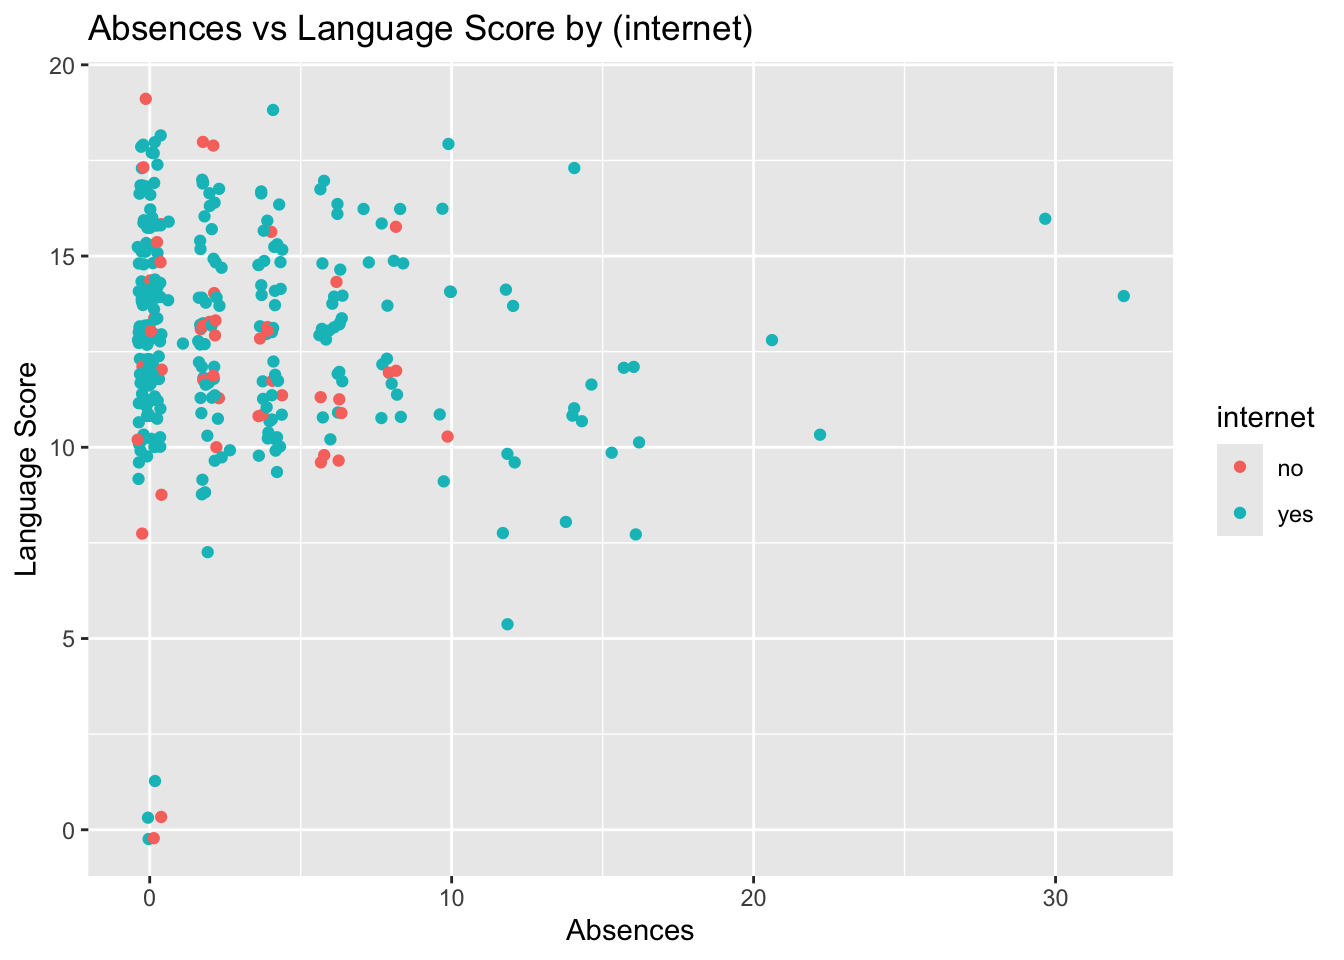
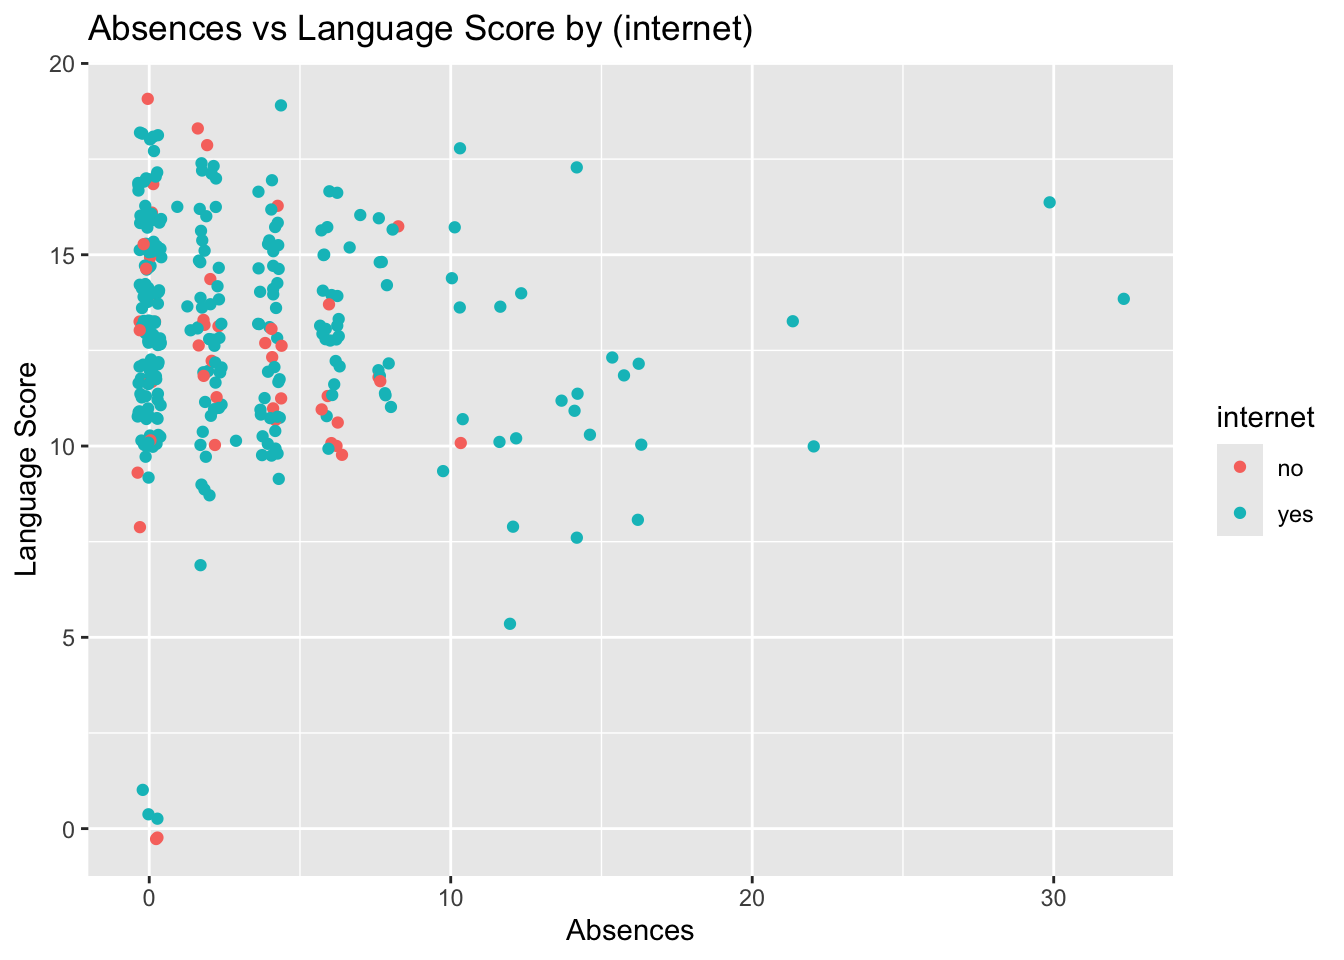
regenerating quarto for all files so you can click between homeworks

diff --git a/docs/homeworks/Homework_4.html b/docs/homeworks/Homework_4.html
@@ -132,6 +132,10 @@ pre > code.sourceCode > span > a:first-child::before { text-decoration: underlin
     <a class="nav-link active" href="../homeworks/Homework_4.html" aria-current="page"> 
 <span class="menu-text">Homework 4</span></a>
   </li>  
+  <li class="nav-item">
+    <a class="nav-link" href="../homeworks/Homework_5.html"> 
+<span class="menu-text">Homework 5</span></a>
+  </li>  
 </ul>
           </div> <!-- /navcollapse -->
           <div class="quarto-navbar-tools">

diff --git a/docs/homeworks/Homework_1.html b/docs/homeworks/Homework_1.html
@@ -132,6 +132,10 @@ pre > code.sourceCode > span > a:first-child::before { text-decoration: underlin
     <a class="nav-link" href="../homeworks/Homework_4.html"> 
 <span class="menu-text">Homework 4</span></a>
   </li>  
+  <li class="nav-item">
+    <a class="nav-link" href="../homeworks/Homework_5.html"> 
+<span class="menu-text">Homework 5</span></a>
+  </li>  
 </ul>
           </div> <!-- /navcollapse -->
           <div class="quarto-navbar-tools">

diff --git a/docs/homeworks/Homework_2.html b/docs/homeworks/Homework_2.html
@@ -132,6 +132,10 @@ pre > code.sourceCode > span > a:first-child::before { text-decoration: underlin
     <a class="nav-link" href="../homeworks/Homework_4.html"> 
 <span class="menu-text">Homework 4</span></a>
   </li>  
+  <li class="nav-item">
+    <a class="nav-link" href="../homeworks/Homework_5.html"> 
+<span class="menu-text">Homework 5</span></a>
+  </li>  
 </ul>
           </div> <!-- /navcollapse -->
           <div class="quarto-navbar-tools">

diff --git a/docs/homeworks/Homework_3.html b/docs/homeworks/Homework_3.html
@@ -132,6 +132,10 @@ pre > code.sourceCode > span > a:first-child::before { text-decoration: underlin
     <a class="nav-link" href="../homeworks/Homework_4.html"> 
 <span class="menu-text">Homework 4</span></a>
   </li>  
+  <li class="nav-item">
+    <a class="nav-link" href="../homeworks/Homework_5.html"> 
+<span class="menu-text">Homework 5</span></a>
+  </li>  
 </ul>
           </div> <!-- /navcollapse -->
           <div class="quarto-navbar-tools">
